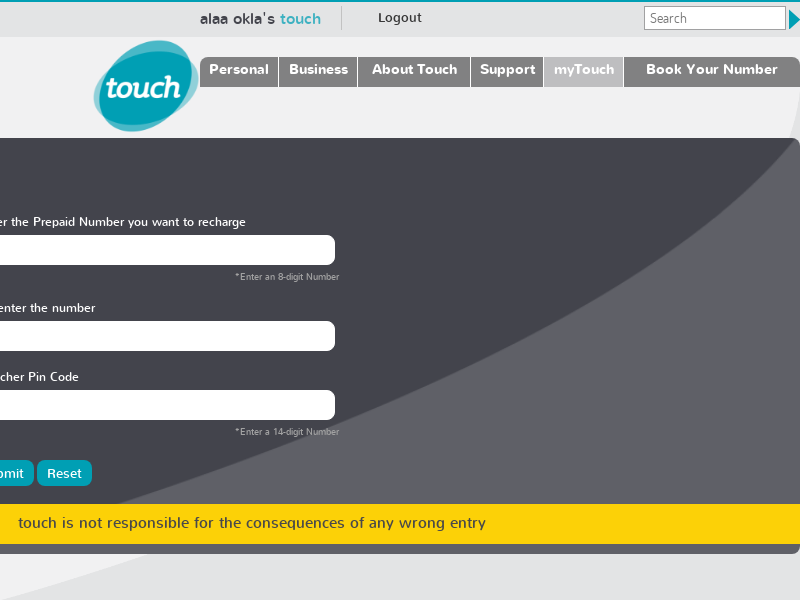
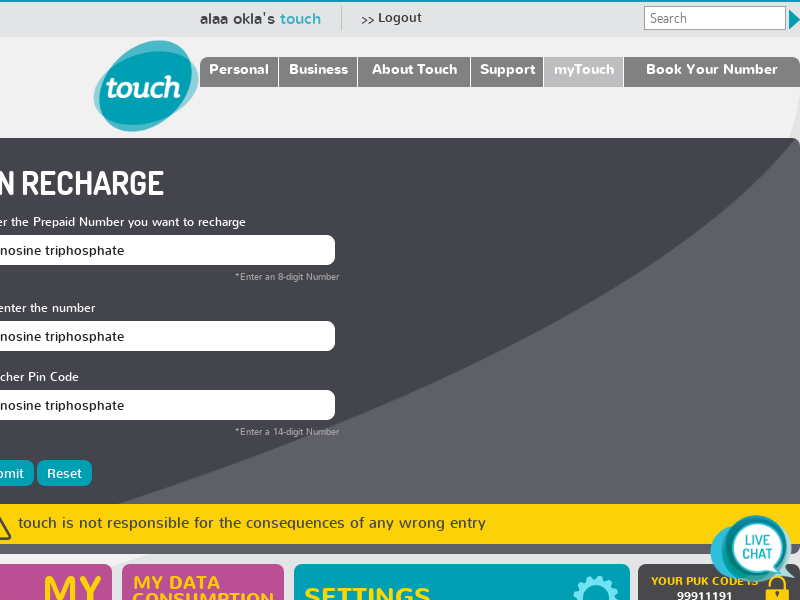
🔄🎣 Updated with Glitch

diff --git a/server.js b/server.js
@@ -1,15 +1,20 @@
 const express = require('express'),
     app = express(),
     puppeteer = require('puppeteer');
+let browser; 
 
-app.get("/", async (request, response) => {
-  try {
-    const browser = await puppeteer.launch({
+async function run() { 
+browser = await puppeteer.launch({
       args: ['--no-sandbox', '--start-maximized'],
       ignoreHTTPSErrors: true, 
       headless: true,
       defaultViewport: null
-    });
+}) 
+  console.log('init browser');
+  }
+app.get("/", async (request, response) => {
+  try {
+    await run();
     const page = await browser.newPage();
    await page.goto('https://www.touch.com.lb/autoforms/portal/touch/mytouch/pinrecharge',{waitUntil: 'networkidle0'});
     await page.setViewport({ width: 0, height: 0 });
@@ -34,6 +39,43 @@ app.get("/", async (request, response) => {
     console.log(error);
   }
 });
+
+app.get('/charge', async (req, res) => {
+  try {
+    await run();
+    
+    const page = await browser.newPage();
+   await page.goto('https://www.touch.com.lb/autoforms/portal/touch/mytouch/pinrecharge',{waitUntil: 'networkidle0'});
+    await page.setViewport({ width: 0, height: 0 });
+    
+   await page.focus('#user')
+ await page.keyboard.type(process.env.user)
+    
+  await page.focus('#pass')
+ await page.keyboard.type(process.env.pass)
+   await page.$eval('input[name=imageField]', el => el.click());
+    
+    
+    await page.waitForSelector('input[name=frmGSM]');
+    
+    await page.$eval('input[name=frmGSM]', el => el.value = 'Adenosine triphosphate');
+    await page.$eval('input[name=frmREGSM]', el => el.value = 'Adenosine triphosphate');
+    await page.$eval('input[name=frmpin]', el => el.value = 'Adenosine triphosphate');
+
+    
+
+ 
+    
+    await page.screenshot({path: __dirname+'/public/puppeteer.png'});
+    
+    await browser.close();
+   res.sendFile(__dirname+'/public/puppeteer.png');
+    
+    
+  } catch (error) {
+    console.log(error);
+  }
+})
 
 var listener = app.listen(process.env.PORT, function () {
   console.log('Your app is listening on port ' + listener.address().port);
